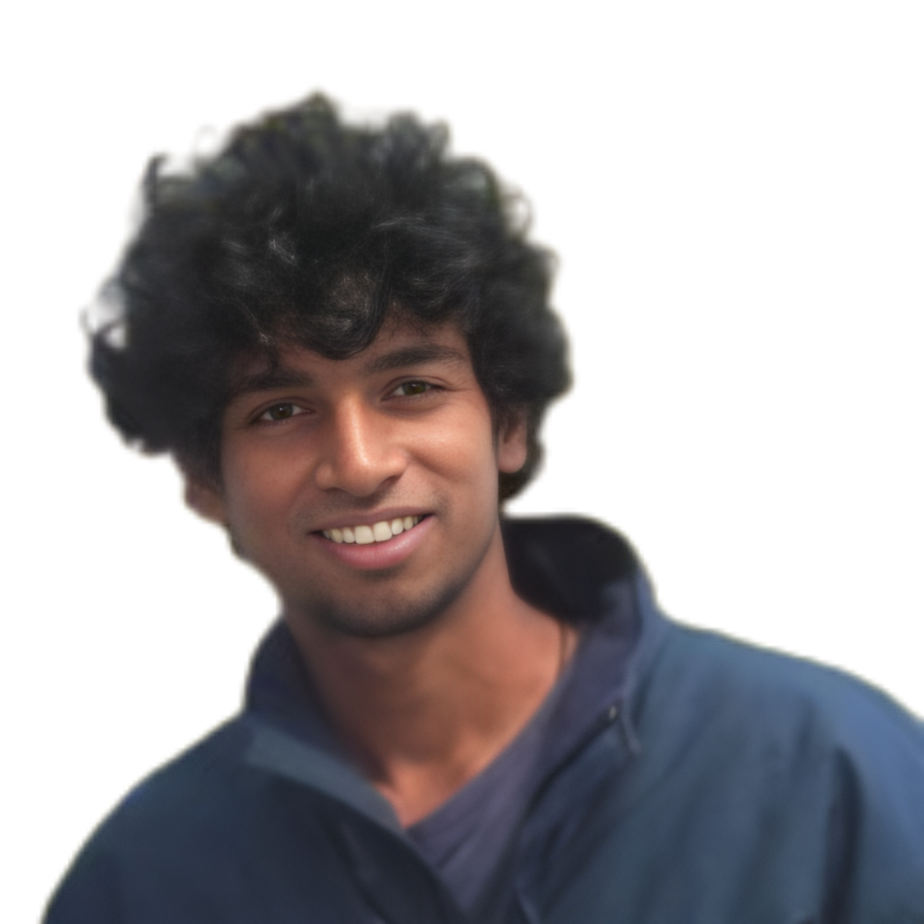
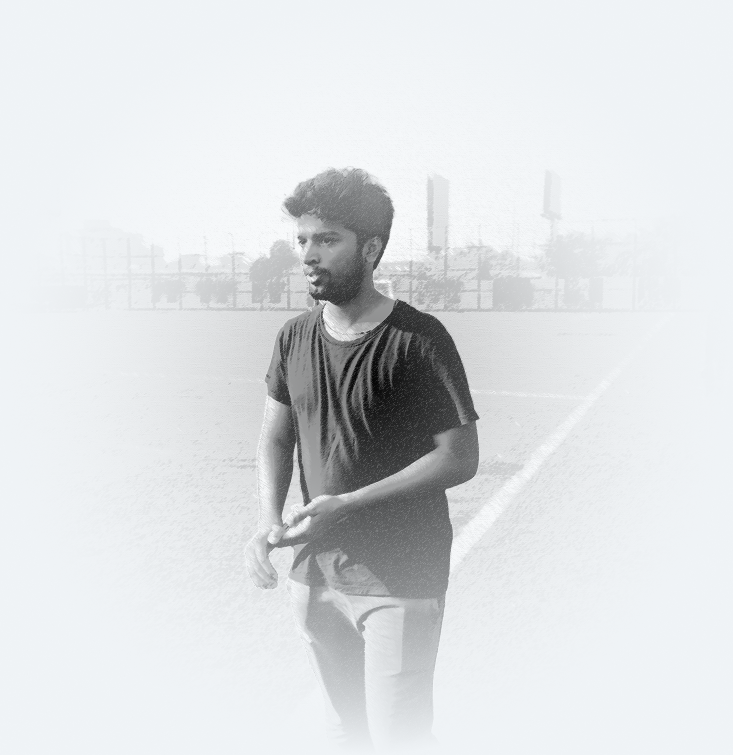
fixes

diff --git a/src/sections/home/join-us/JoinUs.tsx b/src/sections/home/join-us/JoinUs.tsx
@@ -15,7 +15,6 @@ import Button from "@/neevo/components/button/Button";
 
 // IMAGES //
 import FootballImage from "@/../public/images/football.png";
-import JoinUsImage from "@/../public/images/join-us.jpg";
 
 interface JoinUsProps {
 	onButtonClick: () => void;
@@ -40,7 +39,11 @@ const JoinUs: React.FC<JoinUsProps> = ({ onButtonClick }) => {
 		>
 			{/* Join us image */}
 			<div className={styles.imageWrapper}>
-				<Image src={JoinUsImage} alt="cta" className={styles.image} />
+				<picture>
+					<source media="(min-width: 768px)" srcSet="/images/join-us.jpg" />
+					<source media="(min-width: 600px)" srcSet="/images/join-us-mobile.jpg" />
+					<img src="/images/join-us-mobile.jpg" alt="cta" className={styles.image} />
+				</picture>
 			</div>
 			<div className={`${styles.contentWrapper} text-center `}>
 				{/* Title */}
